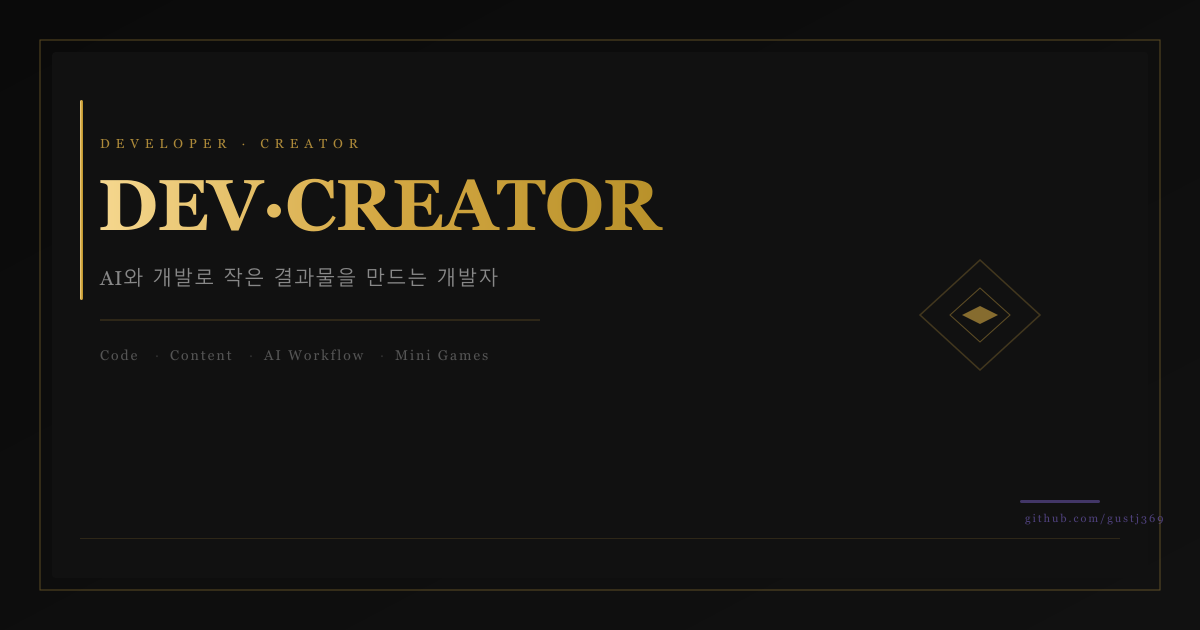
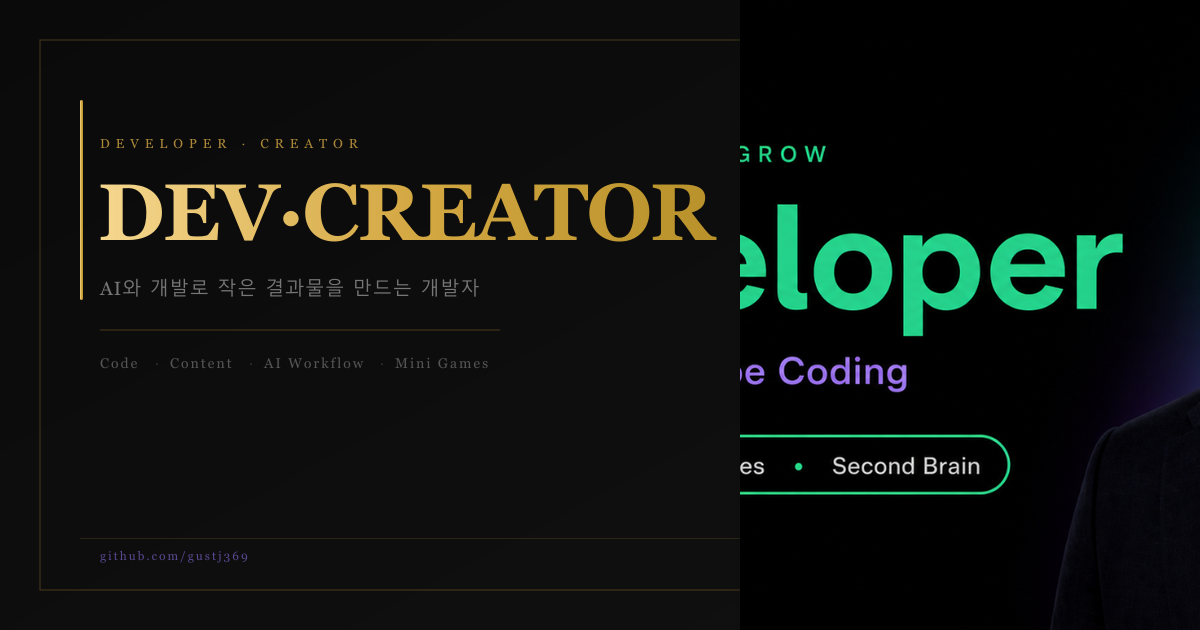
feat: photo ratio fix, mobile photo, og-image update
- Hero: object-top → object-center for better face centering
- Hero: add circular profile photo (w-12) + @94hyeonseo on mobile
- generate-og.js: composite hyeonseo.png on right half of OG image
- public/og-image.png: regenerated (1200×630, photo on right)

diff --git a/generate-og.js b/generate-og.js
@@ -1,6 +1,6 @@
 /**
  * generate-og.js
- * sharp(devDep)로 SVG → PNG 변환, 1200×630 OG 이미지 생성
+ * sharp로 SVG 배경 + 프로필 사진 합성 → 1200×630 OG 이미지 생성
  * 실행: node generate-og.js
  */
 const sharp = require('sharp');
@@ -8,8 +8,9 @@ const path = require('path');
 
 const W = 1200;
 const H = 630;
+const PHOTO_W = 460;
 
-const svg = `
+const svgLeft = `
 <svg xmlns="http://www.w3.org/2000/svg" width="${W}" height="${H}" viewBox="0 0 ${W} ${H}">
   <defs>
     <linearGradient id="bgGrad" x1="0%" y1="0%" x2="100%" y2="100%">
@@ -21,6 +22,10 @@ const svg = `
       <stop offset="50%" style="stop-color:#d4a843"/>
       <stop offset="100%" style="stop-color:#b8912a"/>
     </linearGradient>
+    <linearGradient id="fadeRight" x1="0%" y1="0%" x2="100%" y2="0%">
+      <stop offset="60%" style="stop-color:#0a0a0a;stop-opacity:0"/>
+      <stop offset="100%" style="stop-color:#0a0a0a;stop-opacity:1"/>
+    </linearGradient>
   </defs>
 
   <!-- 배경 -->
@@ -28,11 +33,7 @@ const svg = `
 
   <!-- 외곽 골드 프레임 -->
   <rect x="40" y="40" width="${W - 80}" height="${H - 80}"
-        fill="none" stroke="#d4a843" stroke-width="1" opacity="0.4"/>
-
-  <!-- 내부 카드 -->
-  <rect x="52" y="52" width="${W - 104}" height="${H - 104}"
-        fill="#111111" rx="4"/>
+        fill="none" stroke="#d4a843" stroke-width="1" opacity="0.3"/>
 
   <!-- 좌측 골드 세로 강조 라인 -->
   <rect x="80" y="100" width="3" height="200" fill="url(#goldGrad)" rx="1.5"/>
@@ -46,66 +47,80 @@ const svg = `
         opacity="0.8">DEVELOPER · CREATOR</text>
 
   <!-- 메인 타이틀 -->
-  <text x="98" y="230"
+  <text x="98" y="240"
         font-family="Georgia, serif"
-        font-size="72"
+        font-size="80"
         font-weight="bold"
         fill="url(#goldGrad)"
-        letter-spacing="-1">DEV·CREATOR</text>
+        letter-spacing="-2">DEV·CREATOR</text>
 
   <!-- 서브 타이틀 -->
-  <text x="100" y="285"
+  <text x="100" y="295"
         font-family="Georgia, serif"
-        font-size="20"
-        fill="#888888"
+        font-size="19"
+        fill="#777777"
         letter-spacing="1">AI와 개발로 작은 결과물을 만드는 개발자</text>
 
   <!-- 구분선 -->
-  <line x1="100" y1="320" x2="540" y2="320"
+  <line x1="100" y1="330" x2="500" y2="330"
         stroke="#d4a843" stroke-width="1" opacity="0.3"/>
 
   <!-- 태그들 -->
-  <text x="100" y="360" font-family="Georgia, serif" font-size="14" fill="#555555" letter-spacing="2">Code</text>
-  <text x="155" y="360" font-family="Georgia, serif" font-size="14" fill="#333333">·</text>
-  <text x="170" y="360" font-family="Georgia, serif" font-size="14" fill="#555555" letter-spacing="2">Content</text>
-  <text x="249" y="360" font-family="Georgia, serif" font-size="14" fill="#333333">·</text>
-  <text x="264" y="360" font-family="Georgia, serif" font-size="14" fill="#555555" letter-spacing="2">AI Workflow</text>
-  <text x="380" y="360" font-family="Georgia, serif" font-size="14" fill="#333333">·</text>
-  <text x="395" y="360" font-family="Georgia, serif" font-size="14" fill="#555555" letter-spacing="2">Mini Games</text>
+  <text x="100" y="368" font-family="Georgia, serif" font-size="14" fill="#555555" letter-spacing="2">Code</text>
+  <text x="155" y="368" font-family="Georgia, serif" font-size="14" fill="#333333">·</text>
+  <text x="170" y="368" font-family="Georgia, serif" font-size="14" fill="#555555" letter-spacing="2">Content</text>
+  <text x="249" y="368" font-family="Georgia, serif" font-size="14" fill="#333333">·</text>
+  <text x="264" y="368" font-family="Georgia, serif" font-size="14" fill="#555555" letter-spacing="2">AI Workflow</text>
+  <text x="380" y="368" font-family="Georgia, serif" font-size="14" fill="#333333">·</text>
+  <text x="395" y="368" font-family="Georgia, serif" font-size="14" fill="#555555" letter-spacing="2">Mini Games</text>
 
-  <!-- 우측 장식: 다이아몬드 -->
-  <polygon points="980,260 1040,315 980,370 920,315"
-           fill="none" stroke="#d4a843" stroke-width="1.5" opacity="0.25"/>
-  <polygon points="980,288 1010,315 980,342 950,315"
-           fill="none" stroke="#d4a843" stroke-width="1" opacity="0.4"/>
-  <polygon points="980,306 998,315 980,324 962,315"
-           fill="#d4a843" opacity="0.6"/>
-
-  <!-- 우측 하단 바이올렛 강조 -->
-  <rect x="${W - 180}" y="${H - 130}" width="80" height="3"
-        fill="#8b6fe8" opacity="0.4" rx="1.5"/>
-  <text x="${W - 175}" y="${H - 108}"
+  <!-- 하단 URL -->
+  <text x="100" y="${H - 70}"
         font-family="Georgia, serif"
-        font-size="11"
+        font-size="12"
         fill="#8b6fe8"
-        opacity="0.5"
+        opacity="0.6"
         letter-spacing="2">github.com/gustj369</text>
 
   <!-- 하단 골드 라인 -->
   <rect x="80" y="${H - 92}" width="${W - 160}" height="1"
         fill="#d4a843" opacity="0.15"/>
+
+  <!-- 우측 사진 영역 페이드 오버레이 (자연스러운 경계) -->
+  <rect x="${W - PHOTO_W - 80}" y="0" width="120" height="${H}" fill="url(#fadeRight)"/>
 </svg>
 `;
 
 const outPath = path.join(__dirname, 'public', 'og-image.png');
+const photoPath = path.join(__dirname, 'public', 'hyeonseo.png');
 
-sharp(Buffer.from(svg))
-  .png()
-  .toFile(outPath)
-  .then(info => {
-    console.log(`✓ og-image.png 생성 완료 (${W}×${H}, ${(info.size / 1024).toFixed(1)} KB)`);
-  })
-  .catch(err => {
-    console.error('✗ 생성 실패:', err.message);
-    process.exit(1);
-  });
+async function generate() {
+  // SVG 배경 렌더링
+  const bg = await sharp(Buffer.from(svgLeft)).png().toBuffer();
+
+  // 프로필 사진: 우측에 맞게 리사이즈 (세로 전체 채움)
+  const photo = await sharp(photoPath)
+    .resize(PHOTO_W, H, { fit: 'cover', position: 'centre' })
+    .png()
+    .toBuffer();
+
+  // 배경 + 사진 합성
+  const result = await sharp(bg)
+    .composite([
+      {
+        input: photo,
+        left: W - PHOTO_W,
+        top: 0,
+        blend: 'over',
+      },
+    ])
+    .png()
+    .toFile(outPath);
+
+  console.log(`✓ og-image.png 생성 완료 (${W}×${H}, ${(result.size / 1024).toFixed(1)} KB)`);
+}
+
+generate().catch((err) => {
+  console.error('✗ 생성 실패:', err.message);
+  process.exit(1);
+});

diff --git a/src/components/Hero.jsx b/src/components/Hero.jsx
@@ -86,8 +86,20 @@ export default function Hero() {
               </a>
             </div>
 
+            {/* Mobile profile photo */}
+            <div className="flex md:hidden items-center gap-3 mt-8 mb-2">
+              <div className="w-12 h-12 rounded-full overflow-hidden border border-gold-500/30 flex-shrink-0">
+                <img
+                  src="/hyeonseo.png"
+                  alt="현서 프로필"
+                  className="w-full h-full object-cover object-center"
+                />
+              </div>
+              <span className="text-xs font-mono text-gray-600 tracking-[0.2em]">@94hyeonseo</span>
+            </div>
+
             {/* Mobile stat pills */}
-            <div className="flex md:hidden gap-2.5 mt-10 flex-wrap">
+            <div className="flex md:hidden gap-2.5 mt-3 flex-wrap">
               {mobileStats.map((s) => (
                 <div
                   key={s.value}
@@ -108,7 +120,7 @@ export default function Hero() {
               <img
                 src="/hyeonseo.png"
                 alt="현서 프로필"
-                className="w-full object-cover object-top"
+                className="w-full object-cover object-center"
                 style={{ aspectRatio: "3 / 4", maxHeight: "320px" }}
               />
             </div>
